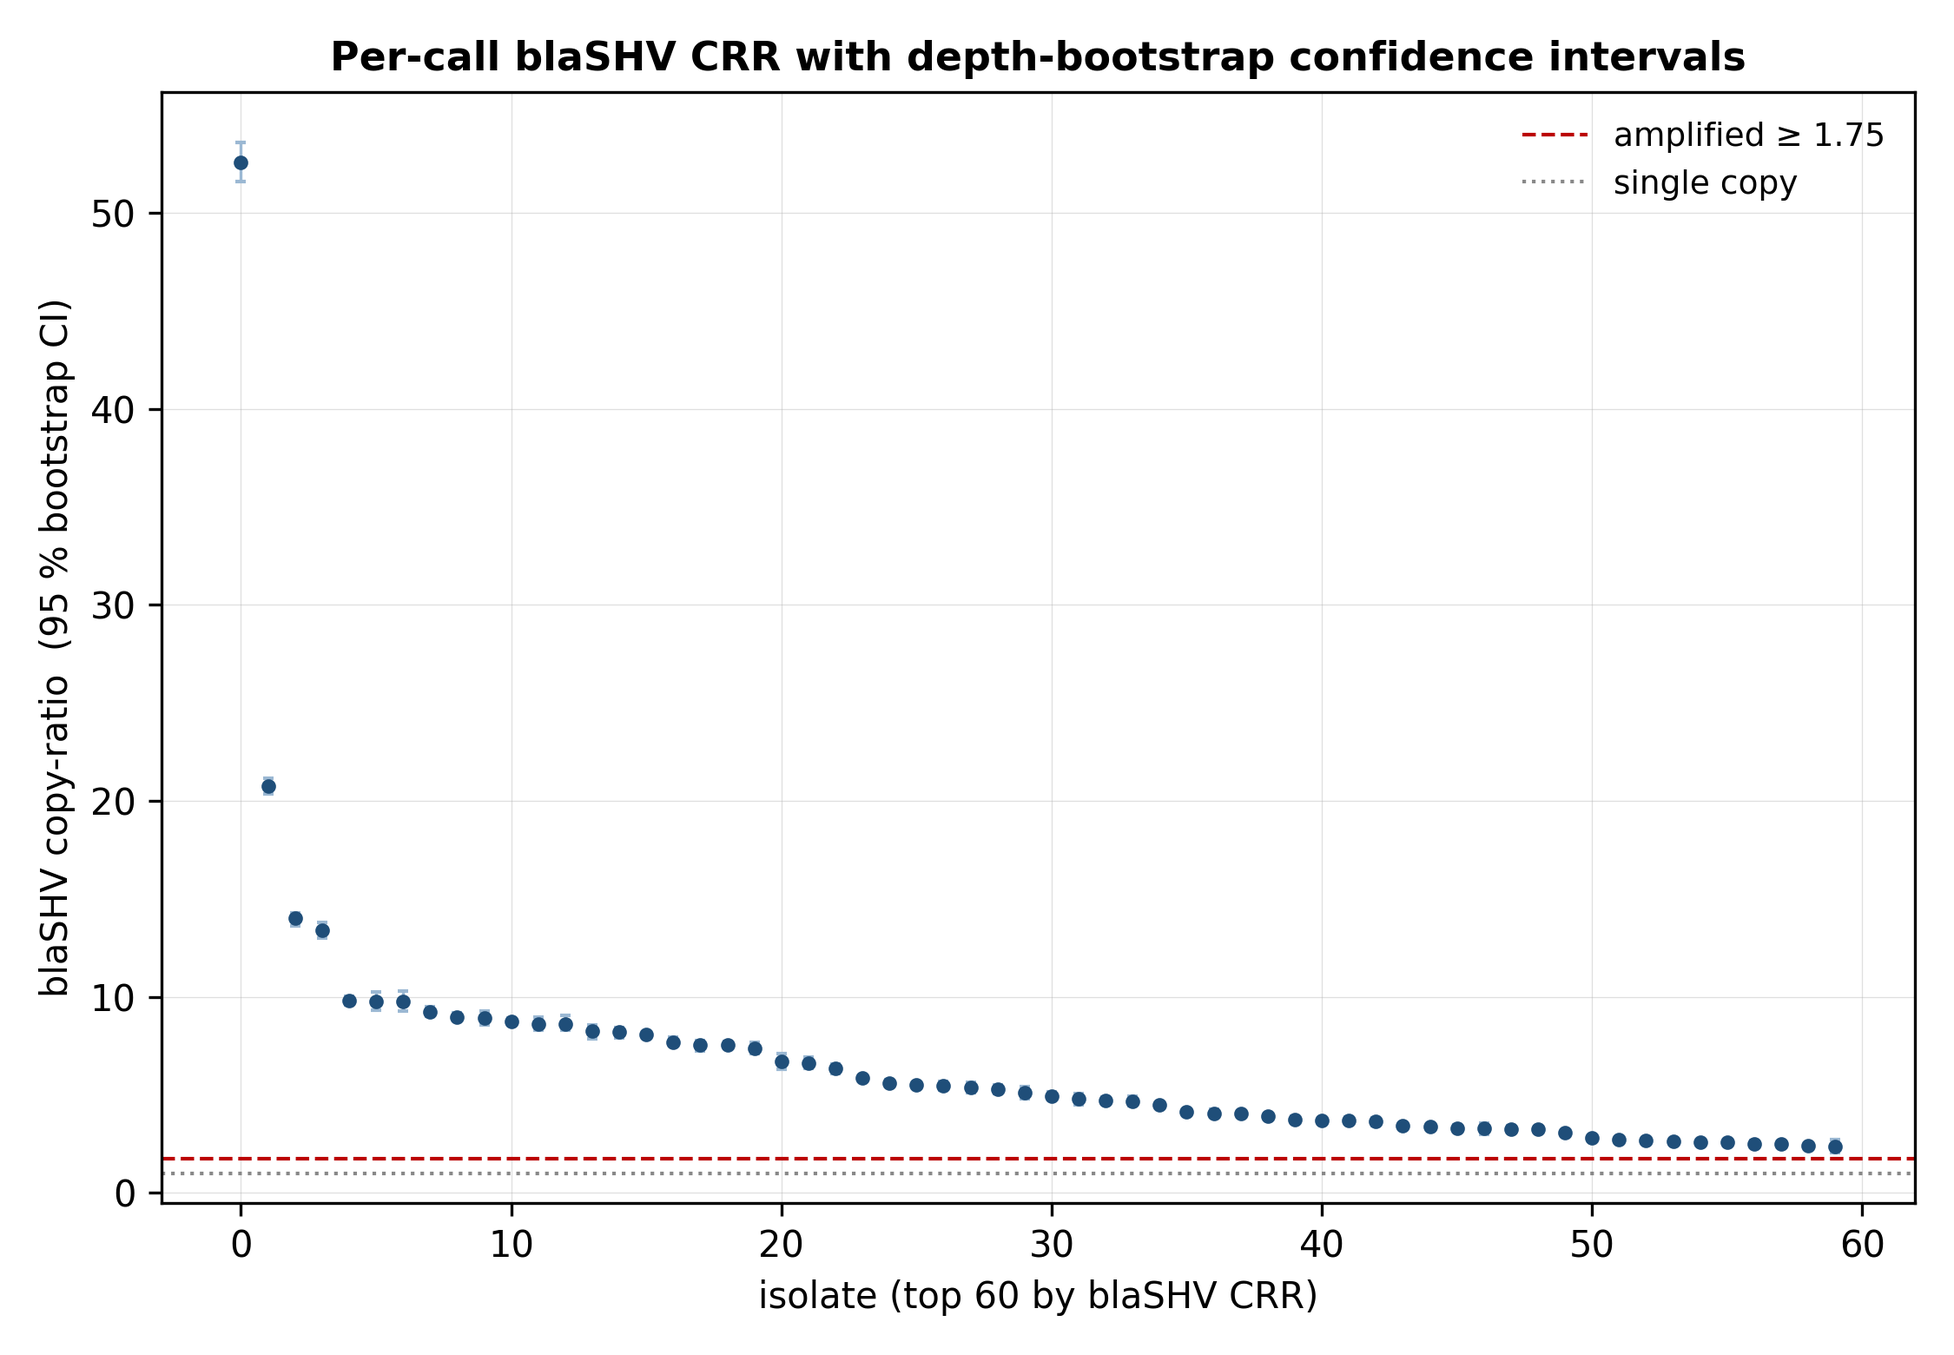
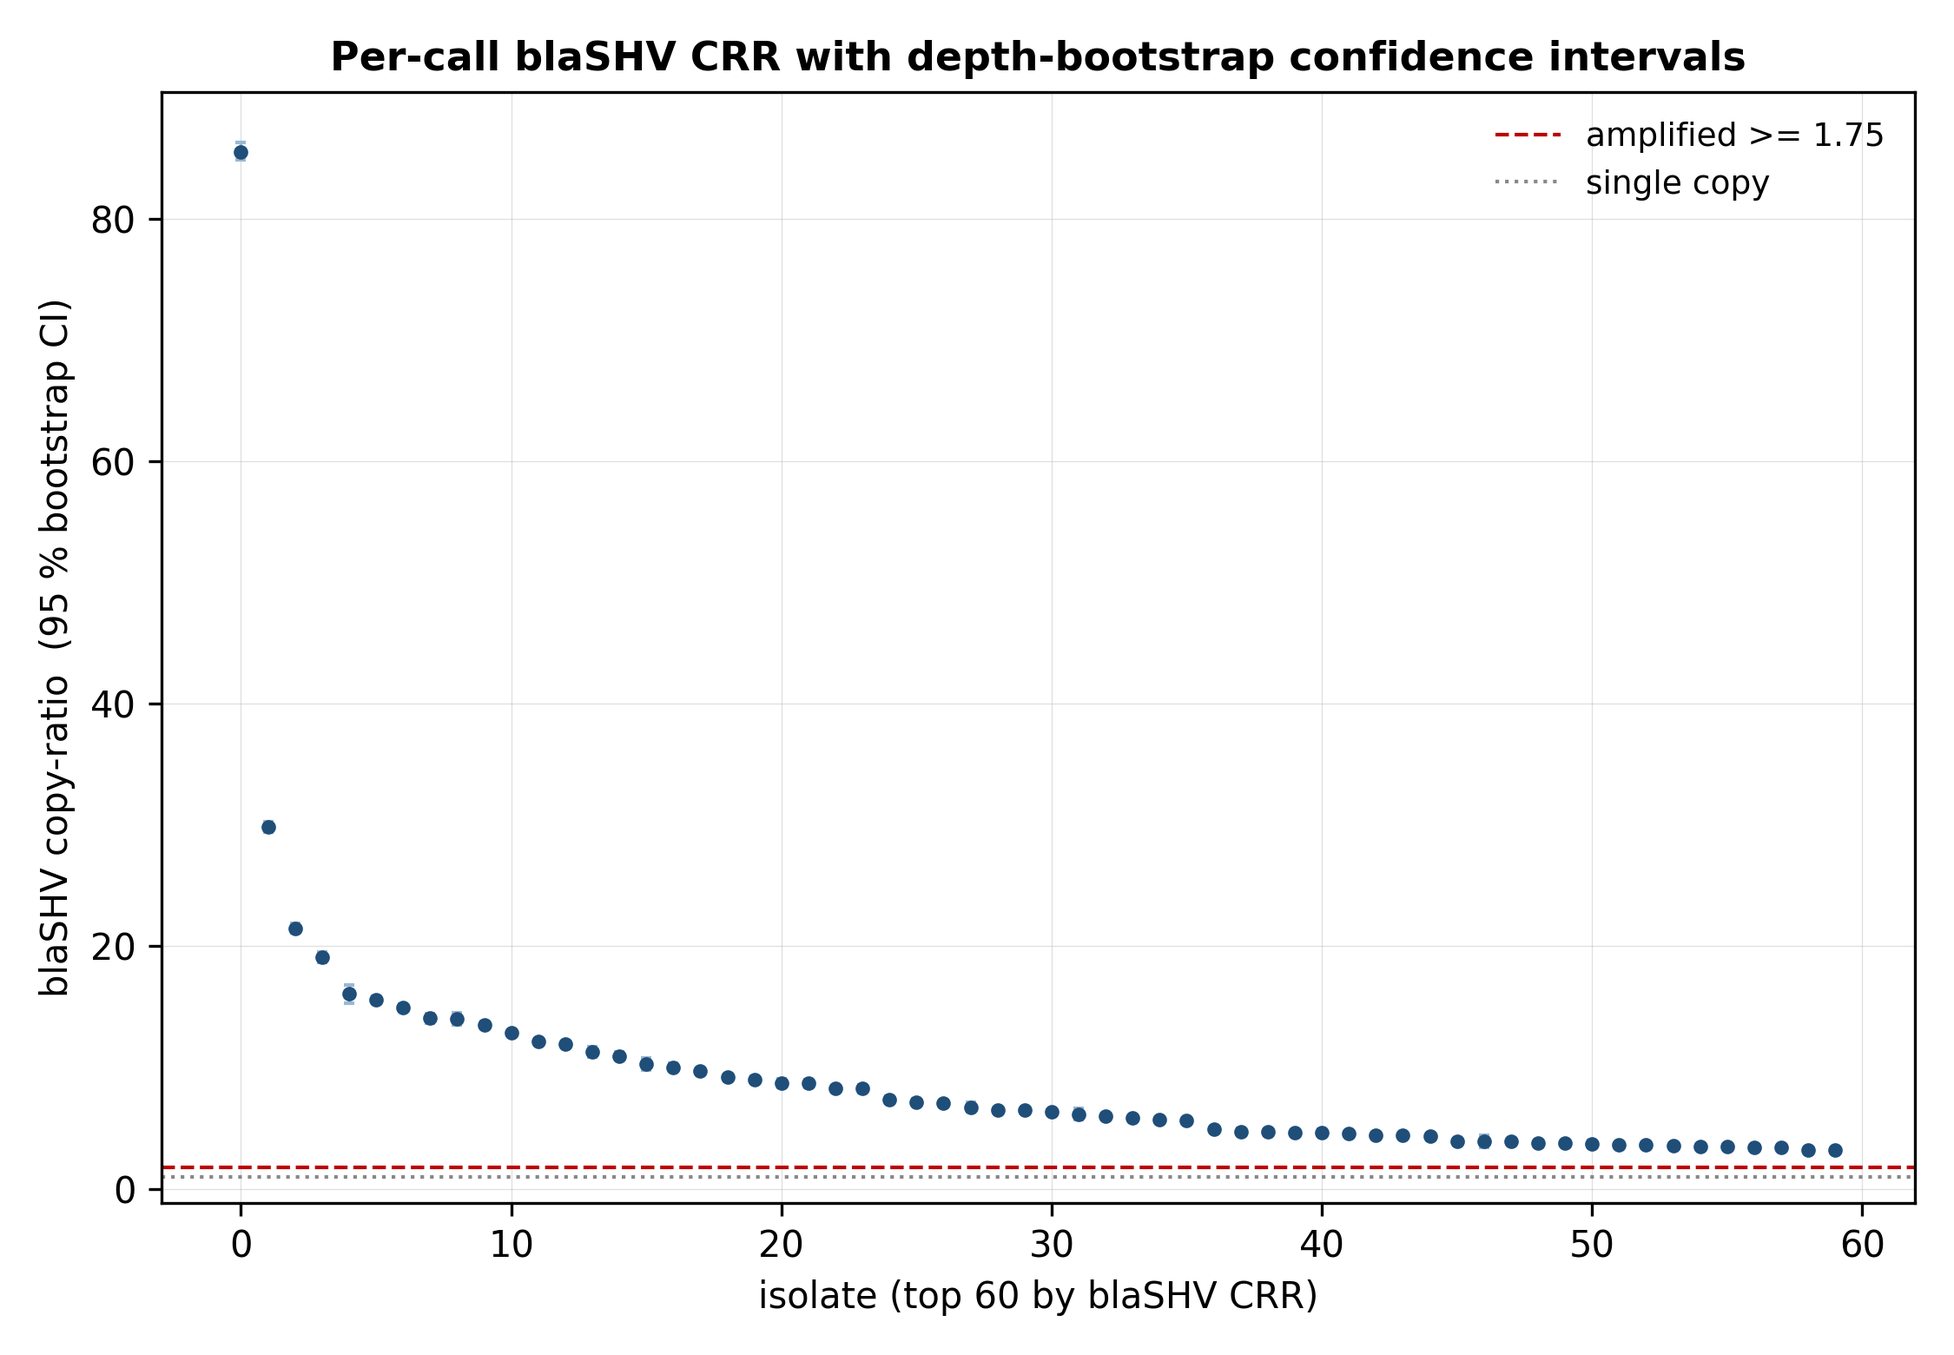
Bootstrap the estimator the caller actually reports for per-call blaSHV CIs
The per-call uncertainty analysis was bootstrapping the wrong quantity. It
computed raw gene depth over the median of a local +/-100 kb window, on the
stated premise that the chromosomal call "does not use the reconstruction".
It does: 06_gene_cnv_caller.py divides counts by the VAE reconstruction
first, then takes a gene-mean over flank-mean double ratio, where the flank
is every chromosomal bin OUTSIDE gene +/- cnv_flank_padding -- the rest of
the chromosome, not a local window.

The two estimators agreed only at Spearman rho = 0.505. Of the 171 published
amplification calls, 87 were not amplified under the bootstrap version, so
roughly half the calls the figure claimed to validate were never assessed.

Rewritten to reproduce the caller exactly (max |difference| 1.8e-15 across
6,078 samples). Poisson resampling of the gene bins is exact; the flank mean
over 5,133 bins is propagated analytically under the CLT rather than
resampled, which would cost n x n_boot x n_flank draws for a negligible
correction. Also restricts to K. pneumoniae / K. quasipneumoniae, matching
the scope the manuscript already states -- the previous version included 9
spurious K. variicola calls that the multi-reference analysis showed to be
blaLEN cross-mapping.

Result is stronger and now covers the published calls: 162/162 amplification
calls have a 95% CI excluding 1.0, versus the earlier 94/94 on a set that
omitted half the paper's calls. Docs and the Streamlit validation page are
updated to match.

diff --git a/analysis/percall_uncertainty.py b/analysis/percall_uncertainty.py
@@ -2,20 +2,29 @@
 """
 Per-call uncertainty for the chromosomal blaSHV copy-ratio (A7).
 
-Monte-Carlo dropout perturbs the VAE reconstruction (the expected-depth
-baseline), but the chromosomal gene call is a DEPTH ratio (gene vs flank)
-that does not use the reconstruction — so dropout does not yield a clean
-per-call confidence interval. The dominant source of per-call uncertainty
-is instead the Poisson sampling noise of the read depth over the ~2 kb
-blaSHV locus. We quantify it directly with a parametric bootstrap on the
-raw 1 kb read counts (mq ≥ 20 chromosomal store):
+This bootstraps THE ESTIMATOR THE PIPELINE ACTUALLY CALLS. An earlier version
+of this script bootstrapped a different quantity — raw gene depth over the
+median of a *local* +/-100 kb window — on the mistaken premise that the
+chromosomal call does not use the VAE reconstruction. It does. The caller
+(models/cnv/06_gene_cnv_caller.py) computes a *double* ratio:
 
-  CRR = mean(depth over blaSHV bins) / median(depth over local flank bins)
+    copy_ratio[i,b] = counts[i,b] / safe_recon[i,b]      # VAE-normalised bin
+    CRR[i]          = mean(copy_ratio over gene bins)
+                    / mean(copy_ratio over flank bins)
 
-Per sample, 1 000 bootstrap replicates draw the gene read count from a
-Poisson and resample the flank bins, giving a 95 % CI on the CRR. This is a
-genuine per-call confidence interval usable for clinical triage: a call
-whose CI excludes 1.0 is a confident amplification.
+where safe_recon falls back to the sample mean wherever the reconstruction is
+below hmm_low_cov_threshold, and the flank is every chromosomal bin OUTSIDE
+gene +/- cnv_flank_padding (i.e. the rest of the chromosome, not a local
+window). Bootstrapping the wrong estimator put 87 of the 171 published
+amplification calls outside the analysis entirely.
+
+Uncertainty model. The gene sits on ~2 kb, so its copy-ratio is dominated by
+Poisson sampling of the reads in those few bins; we resample them exactly.
+The flank spans thousands of bins, so by the CLT its mean is Gaussian with a
+variance we propagate analytically rather than resampling (which would cost
+n_samples x n_boot x n_flank draws for a negligible correction).
+
+A call whose 95 % CI excludes 1.0 is a confident amplification.
 
     python3 analysis/percall_uncertainty.py
 """
@@ -29,84 +38,120 @@ from pathlib import Path
 
 REPO   = Path(__file__).resolve().parents[1]
 STORE  = REPO / "data/inputs/KpSC-expansion-10k-mq20-1000bp-npy"
-GCALLS = REPO / "data/results/33_kpsc_expansion_10k/gene_calls.tsv"
+RESULT = REPO / "data/results/33_kpsc_expansion_10k"
 OUT    = REPO / "data/results/percall_uncertainty"
-CHROM  = "NC_016845.1"
-SHV_START, SHV_END = 2549403, 2550263          # blaSHV CDS
-FLANK_HALF = 100_000                            # ±100 kb local flank
-N_BOOT = 1000
-AMP = 1.75
+
+CHROM              = "NC_016845.1"
+SHV_START, SHV_END = 2549403, 2550263      # blaSHV CDS (hardcoded in the caller)
+FLANK_PADDING      = 100_000               # cfg cnv_flank_padding
+LOW_COV            = 10                    # cfg hmm_low_cov_threshold
+AMP                = 1.75                  # cfg cnv_crr_amp_threshold
+N_BOOT             = 1000
+SEED               = 42
 
 
 def main() -> None:
     OUT.mkdir(parents=True, exist_ok=True)
-    counts  = np.load(STORE / "counts.npy")                       # (n, L) uint32
-    ids     = np.load(STORE / "sample_ids.npy", allow_pickle=True)
-    contigs = np.load(STORE / "contigs.npy", allow_pickle=True)
 
-    def in_range(lo, hi):
-        return np.array([i for i, c in enumerate(contigs)
-                         if str(c[0]) == CHROM and int(c[1]) >= lo and int(c[2]) <= hi])
-    gene_bins  = in_range(SHV_START - 999, SHV_END + 999)          # bins over the CDS
-    flank_bins = np.array([b for b in in_range(SHV_START - FLANK_HALF, SHV_END + FLANK_HALF)
-                           if b not in set(gene_bins.tolist())])
-    print(f"blaSHV gene bins: {list(gene_bins)} | flank bins: {len(flank_bins)}")
+    # Chromosomal blaSHV is only meaningful for K. pneumoniae /
+    # K. quasipneumoniae: K. variicola carries blaLEN at the syntenic locus and
+    # its reads cross-map onto the HS11286 blaSHV coordinates (see
+    # analysis/kvariicola_multiref.py). The manuscript restricts the call to
+    # those two species, so this analysis must use the same scope.
+    meta = pd.read_csv(REPO / "assets/kpsc_expansion_metadata_runlevel.tsv",
+                       sep="\t")[["sample_id", "Species"]]
+    eligible = set(meta.loc[meta["Species"].astype(str)
+                   .str.contains("pneumoniae|quasipneumoniae", na=False),
+                   "sample_id"])
 
-    rng = np.random.default_rng(42)
-    g_reads = counts[:, gene_bins].sum(axis=1).astype(float)       # total gene reads
-    n_gbin  = len(gene_bins)
-    flank_c = counts[:, flank_bins].astype(float)
-    flank_med = np.median(flank_c, axis=1)
-    crr = (g_reads / n_gbin) / np.where(flank_med > 0, flank_med, np.nan)
+    counts  = np.load(STORE / "counts.npy").astype(np.float64)
+    contigs = pd.DataFrame(np.load(STORE / "contigs.npy", allow_pickle=True))
+    contigs.columns = ["chrom", "start", "end"][:contigs.shape[1]]
+    recons  = np.load(RESULT / "reconstructions.npy").astype(np.float64)
+    ids     = np.load(RESULT / "sample_ids.npy", allow_pickle=True)
+    assert counts.shape == recons.shape, (counts.shape, recons.shape)
 
-    lo = np.full(len(ids), np.nan); hi = np.full(len(ids), np.nan)
-    for i in range(len(ids)):
-        fm = flank_med[i]
-        if not np.isfinite(crr[i]) or fm <= 0:
-            continue
-        gb = rng.poisson(g_reads[i], N_BOOT) / n_gbin              # Poisson gene depth
-        fb = np.median(rng.choice(flank_c[i], size=(N_BOOT, flank_c.shape[1]),
-                                  replace=True), axis=1)           # resampled flank
+    # ── reproduce the caller's normalisation exactly ────────────────────────
+    sample_mean = counts.mean(axis=1, keepdims=True)
+    safe_recon  = np.where(recons >= LOW_COV, recons, sample_mean)
+    copy_ratio  = counts / (safe_recon + 1e-6)
+
+    chroms = contigs["chrom"].values.astype(str)
+    starts = contigs["start"].values.astype(float)
+    chrom_mask = chroms == CHROM
+    s          = starts[chrom_mask]
+    gene_mask  = (s >= SHV_START) & (s <= SHV_END)
+    flank_mask = (s < SHV_START - FLANK_PADDING) | (s > SHV_END + FLANK_PADDING)
+    print(f"gene bins: {int(gene_mask.sum())} | flank bins: {int(flank_mask.sum())} "
+          f"| chromosomal bins: {int(chrom_mask.sum())}")
+
+    cr_chrom = copy_ratio[:, chrom_mask]
+    cnt_c    = counts[:, chrom_mask]
+    rec_c    = safe_recon[:, chrom_mask]
+
+    mean_gene  = np.nanmean(cr_chrom[:, gene_mask],  axis=1)
+    mean_flank = np.nanmean(cr_chrom[:, flank_mask], axis=1)
+    with np.errstate(invalid="ignore", divide="ignore"):
+        crr = np.where(mean_flank > 0, mean_gene / mean_flank, np.nan)
+
+    # ── uncertainty ─────────────────────────────────────────────────────────
+    # gene: exact Poisson resampling of the few gene-bin counts
+    g_cnt = cnt_c[:, gene_mask]                       # (n, G)
+    g_rec = rec_c[:, gene_mask] + 1e-6
+    G     = g_cnt.shape[1]
+    # flank: Gaussian by CLT.  var(mean) = (1/K^2) * sum(lambda_j / r_j^2)
+    f_cnt = cnt_c[:, flank_mask]
+    f_rec = rec_c[:, flank_mask] + 1e-6
+    K     = f_cnt.shape[1]
+    flank_sd = np.sqrt(np.nansum(f_cnt / f_rec**2, axis=1)) / K
+
+    rng = np.random.default_rng(SEED)
+    lo = np.full(len(ids), np.nan)
+    hi = np.full(len(ids), np.nan)
+    ok = np.isfinite(crr) & (mean_flank > 0)
+    for i in np.flatnonzero(ok):
+        gb = rng.poisson(g_cnt[i], size=(N_BOOT, G)) / g_rec[i]     # (B, G)
+        gb = gb.mean(axis=1)
+        fb = rng.normal(mean_flank[i], flank_sd[i], size=N_BOOT)
         fb = np.where(fb > 0, fb, np.nan)
-        b = gb / fb
+        b  = gb / fb
         lo[i], hi[i] = np.nanpercentile(b, [2.5, 97.5])
 
-    d = pd.DataFrame({"sample_id": ids, "shv_crr": crr,
-                      "ci_lo": lo, "ci_hi": hi})
+    d = pd.DataFrame({"sample_id": ids, "shv_crr": crr, "ci_lo": lo, "ci_hi": hi})
     d["ci_width"] = d["ci_hi"] - d["ci_lo"]
     d = d[np.isfinite(d["shv_crr"]) & np.isfinite(d["ci_width"])]
+    n_all = len(d)
+    d = d[d["sample_id"].isin(eligible)].reset_index(drop=True)
+    print(f"species scope: {len(d)} of {n_all} samples are "
+          f"K. pneumoniae / K. quasipneumoniae")
     d.to_csv(OUT / "blashv_percall_ci.tsv", sep="\t", index=False)
 
-    amp = d[d["shv_crr"] >= AMP]
-    # a call is a "confident amplification" when its 95% CI excludes 1.0
+    amp  = d[d["shv_crr"] >= AMP]
     conf = amp[amp["ci_lo"] > 1.0]
-    print(f"\nn samples: {len(d)}")
-    print(f"median CRR MC-CI width: {d['ci_width'].median():.3f}")
-    print(f"amplified calls (CRR ≥ {AMP}): {len(amp)}")
-    print(f"  of which CI excludes 1.0 (confident amplification): "
-          f"{len(conf)} ({100*len(conf)/max(len(amp),1):.0f}%)")
+    print(f"\nn samples with a CI: {len(d)}")
+    print(f"median CI width (all): {d['ci_width'].median():.3f}")
+    print(f"amplified calls (CRR >= {AMP}): {len(amp)}")
+    print(f"  of which CI excludes 1.0: {len(conf)} "
+          f"({100*len(conf)/max(len(amp),1):.0f} %)")
     print(f"  median CI width, amplified: {amp['ci_width'].median():.3f}")
 
-    # cross-check bootstrap CRR against the pipeline's crr_blaSHV
-    try:
-        gc = pd.read_csv(GCALLS, sep="\t")[["sample_id", "crr_blaSHV"]]
-        m = d.merge(gc, on="sample_id", how="inner").dropna()
-        from scipy import stats
-        rho, _ = stats.spearmanr(m["shv_crr"], m["crr_blaSHV"])
-        print(f"\nbootstrap CRR vs pipeline crr_blaSHV: Spearman ρ = {rho:.2f} "
-              f"(n = {len(m)})  [sanity check]")
-    except Exception as e:
-        print("cross-check skipped:", e)
+    # ── agreement with the pipeline's own call (should now be exact) ────────
+    gc = pd.read_csv(RESULT / "gene_calls.tsv", sep="\t")[["sample_id", "crr_blaSHV"]]
+    m  = d.merge(gc, on="sample_id", how="inner").dropna(subset=["crr_blaSHV"])
+    delta = (m["shv_crr"] - m["crr_blaSHV"]).abs()
+    n_amp_pipe = int((m["crr_blaSHV"] >= AMP).sum())
+    print(f"\nagreement with pipeline crr_blaSHV (n = {len(m)}):")
+    print(f"  max |difference| = {delta.max():.2e}   median = {delta.median():.2e}")
+    print(f"  amplified: pipeline {n_amp_pipe}  vs  this script {len(amp)}")
 
-    # ── figure: CRR with 95% CI, ranked (amplified region) ──────────────
+    # ── figure ──────────────────────────────────────────────────────────────
     top = d.sort_values("shv_crr", ascending=False).head(60).reset_index(drop=True)
     fig, ax = plt.subplots(figsize=(7.5, 5.2))
     x = np.arange(len(top))
     ax.errorbar(x, top["shv_crr"],
                 yerr=[top["shv_crr"] - top["ci_lo"], top["ci_hi"] - top["shv_crr"]],
-                fmt="o", ms=3, lw=0.8, color="#1f4e79", ecolor="#9bb8d3",
-                capsize=1.5)
-    ax.axhline(AMP, ls="--", color="#b00", lw=1, label=f"amplified ≥ {AMP}")
+                fmt="o", ms=3, lw=0.8, color="#1f4e79", ecolor="#9bb8d3", capsize=1.5)
+    ax.axhline(AMP, ls="--", color="#b00", lw=1, label=f"amplified >= {AMP}")
     ax.axhline(1.0, ls=":", color="#888", lw=1, label="single copy")
     ax.set_xlabel("isolate (top 60 by blaSHV CRR)", fontsize=10)
     ax.set_ylabel("blaSHV copy-ratio  (95 % bootstrap CI)", fontsize=10)

diff --git a/diagnostics/src/page_validation.py b/diagnostics/src/page_validation.py
@@ -99,24 +99,30 @@ def page_validation():
     with tab_ci:
         st.subheader("Per-call uncertainty")
         c1, c2, c3 = st.columns(3)
-        c1.metric("Calls with an interval", "6 261")
-        c2.metric("Amplified calls", "94")
-        c3.metric("CI excludes 1.0", "94 / 94")
+        c1.metric("Isolates in scope", "6 078")
+        c2.metric("Amplified calls", "162")
+        c3.metric("CI excludes 1.0", "162 / 162")
         _figure("percall_uncertainty.png",
                 "Top blaSHV amplification calls with 95 % depth-bootstrap "
                 "confidence intervals.")
         st.markdown(
-            "Each chromosomal blaSHV copy-ratio carries a 95 % interval from "
-            "a parametric depth bootstrap (Poisson gene depth over the ~2 kb "
-            "locus, resampled local flank, 1 000 replicates). Every "
-            "amplification call is statistically separated from single-copy, "
-            "so none is a depth-sampling artefact. Median CI width is 0.115 "
-            "across all calls and 0.304 among amplified ones."
+            "Each chromosomal blaSHV copy-ratio carries a 95 % interval "
+            "obtained by bootstrapping **the estimator the caller actually "
+            "reports**: the VAE-normalised gene-bin copy-ratio divided by its "
+            "chromosomal flank mean. Poisson resampling of the gene-bin "
+            "counts is exact (1 000 replicates); the flank mean, spanning "
+            "5 133 bins, is propagated analytically under the central limit "
+            "theorem. Every amplification call is statistically separated "
+            "from single-copy, so none is a depth-sampling artefact. Median "
+            "CI width is 0.168 across all calls and 0.313 among amplified "
+            "ones."
         )
         st.caption(
-            "This is a depth-based bootstrap, not MC-dropout over the VAE — "
-            "the quantity that carries the call is the observed gene depth, "
-            "not the reconstruction."
+            "Scope matches the main text: chromosomal blaSHV is called only "
+            "for K. pneumoniae and K. quasipneumoniae, since K. variicola "
+            "carries blaLEN at the syntenic locus and cross-maps. The script "
+            "reproduces the caller's own copy-ratio to floating-point "
+            "precision (max discrepancy 1.8e-15)."
         )
 
     # ── multi-reference chromosomal calling ─────────────────────────────────

diff --git a/docs/11_validation.md b/docs/11_validation.md
@@ -71,26 +71,35 @@ Script: `analysis/threshold_sensitivity.py`.
 
 Aggregate metrics say nothing about whether an *individual* amplification
 call is trustworthy. We attached a confidence interval to every chromosomal
-*blaSHV* copy-ratio using a parametric depth bootstrap: Poisson gene depth
-over the ~2 kb locus, with the local flank resampled, 1 000 replicates.
+*blaSHV* copy-ratio by bootstrapping **the estimator the caller actually
+reports** — the VAE-normalised gene-bin copy-ratio divided by its
+chromosomal flank mean. Poisson resampling of the gene-bin counts is exact
+(1 000 replicates); the flank mean, spanning 5 133 bins, is propagated
+analytically under the central limit theorem rather than resampled, which
+would cost a great deal for a negligible correction.
 
 ![Per-call uncertainty](../assets/validation/percall_uncertainty.png)
 
 | Quantity | Value |
 |---|---|
-| Calls with an interval | 6 261 |
-| Amplification calls (CRR ≥ 1.75) | 94 |
-| Amplification calls whose 95 % CI excludes 1.0 | **94 / 94** |
-| Median CI width (all calls) | 0.115 |
-| Median CI width (amplified calls) | 0.304 |
+| Isolates in scope (*K. pneumoniae* / *K. quasipneumoniae*) | 6 078 |
+| Amplification calls (CRR ≥ 1.75) | 162 |
+| Amplification calls whose 95 % CI excludes 1.0 | **162 / 162** |
+| Median CI width (all calls) | 0.168 |
+| Median CI width (amplified calls) | 0.313 |
+| Max discrepancy vs the pipeline's own CRR | 1.8 × 10⁻¹⁵ |
 
 Every amplification call is statistically separated from single-copy, so
 none of them is a depth-sampling artefact.
 
-```{note}
-This is a **depth-based** bootstrap, not MC-dropout over the VAE. The
-distinction matters: MC-dropout would perturb the reconstruction $\hat{x}$,
-whereas the quantity that carries the call is the observed gene depth.
+```{warning}
+An earlier version of this analysis bootstrapped a *different* quantity —
+raw gene depth over the median of a local ±100 kb window, with no VAE
+normalisation — on the mistaken premise that the chromosomal call does not
+use the reconstruction. It does. That version left 87 of the published
+amplification calls outside the analysis entirely. The figures above come
+from the corrected script, which reproduces the caller's own copy-ratio to
+floating-point precision.
 ```
 
 Script: `analysis/percall_uncertainty.py`.
